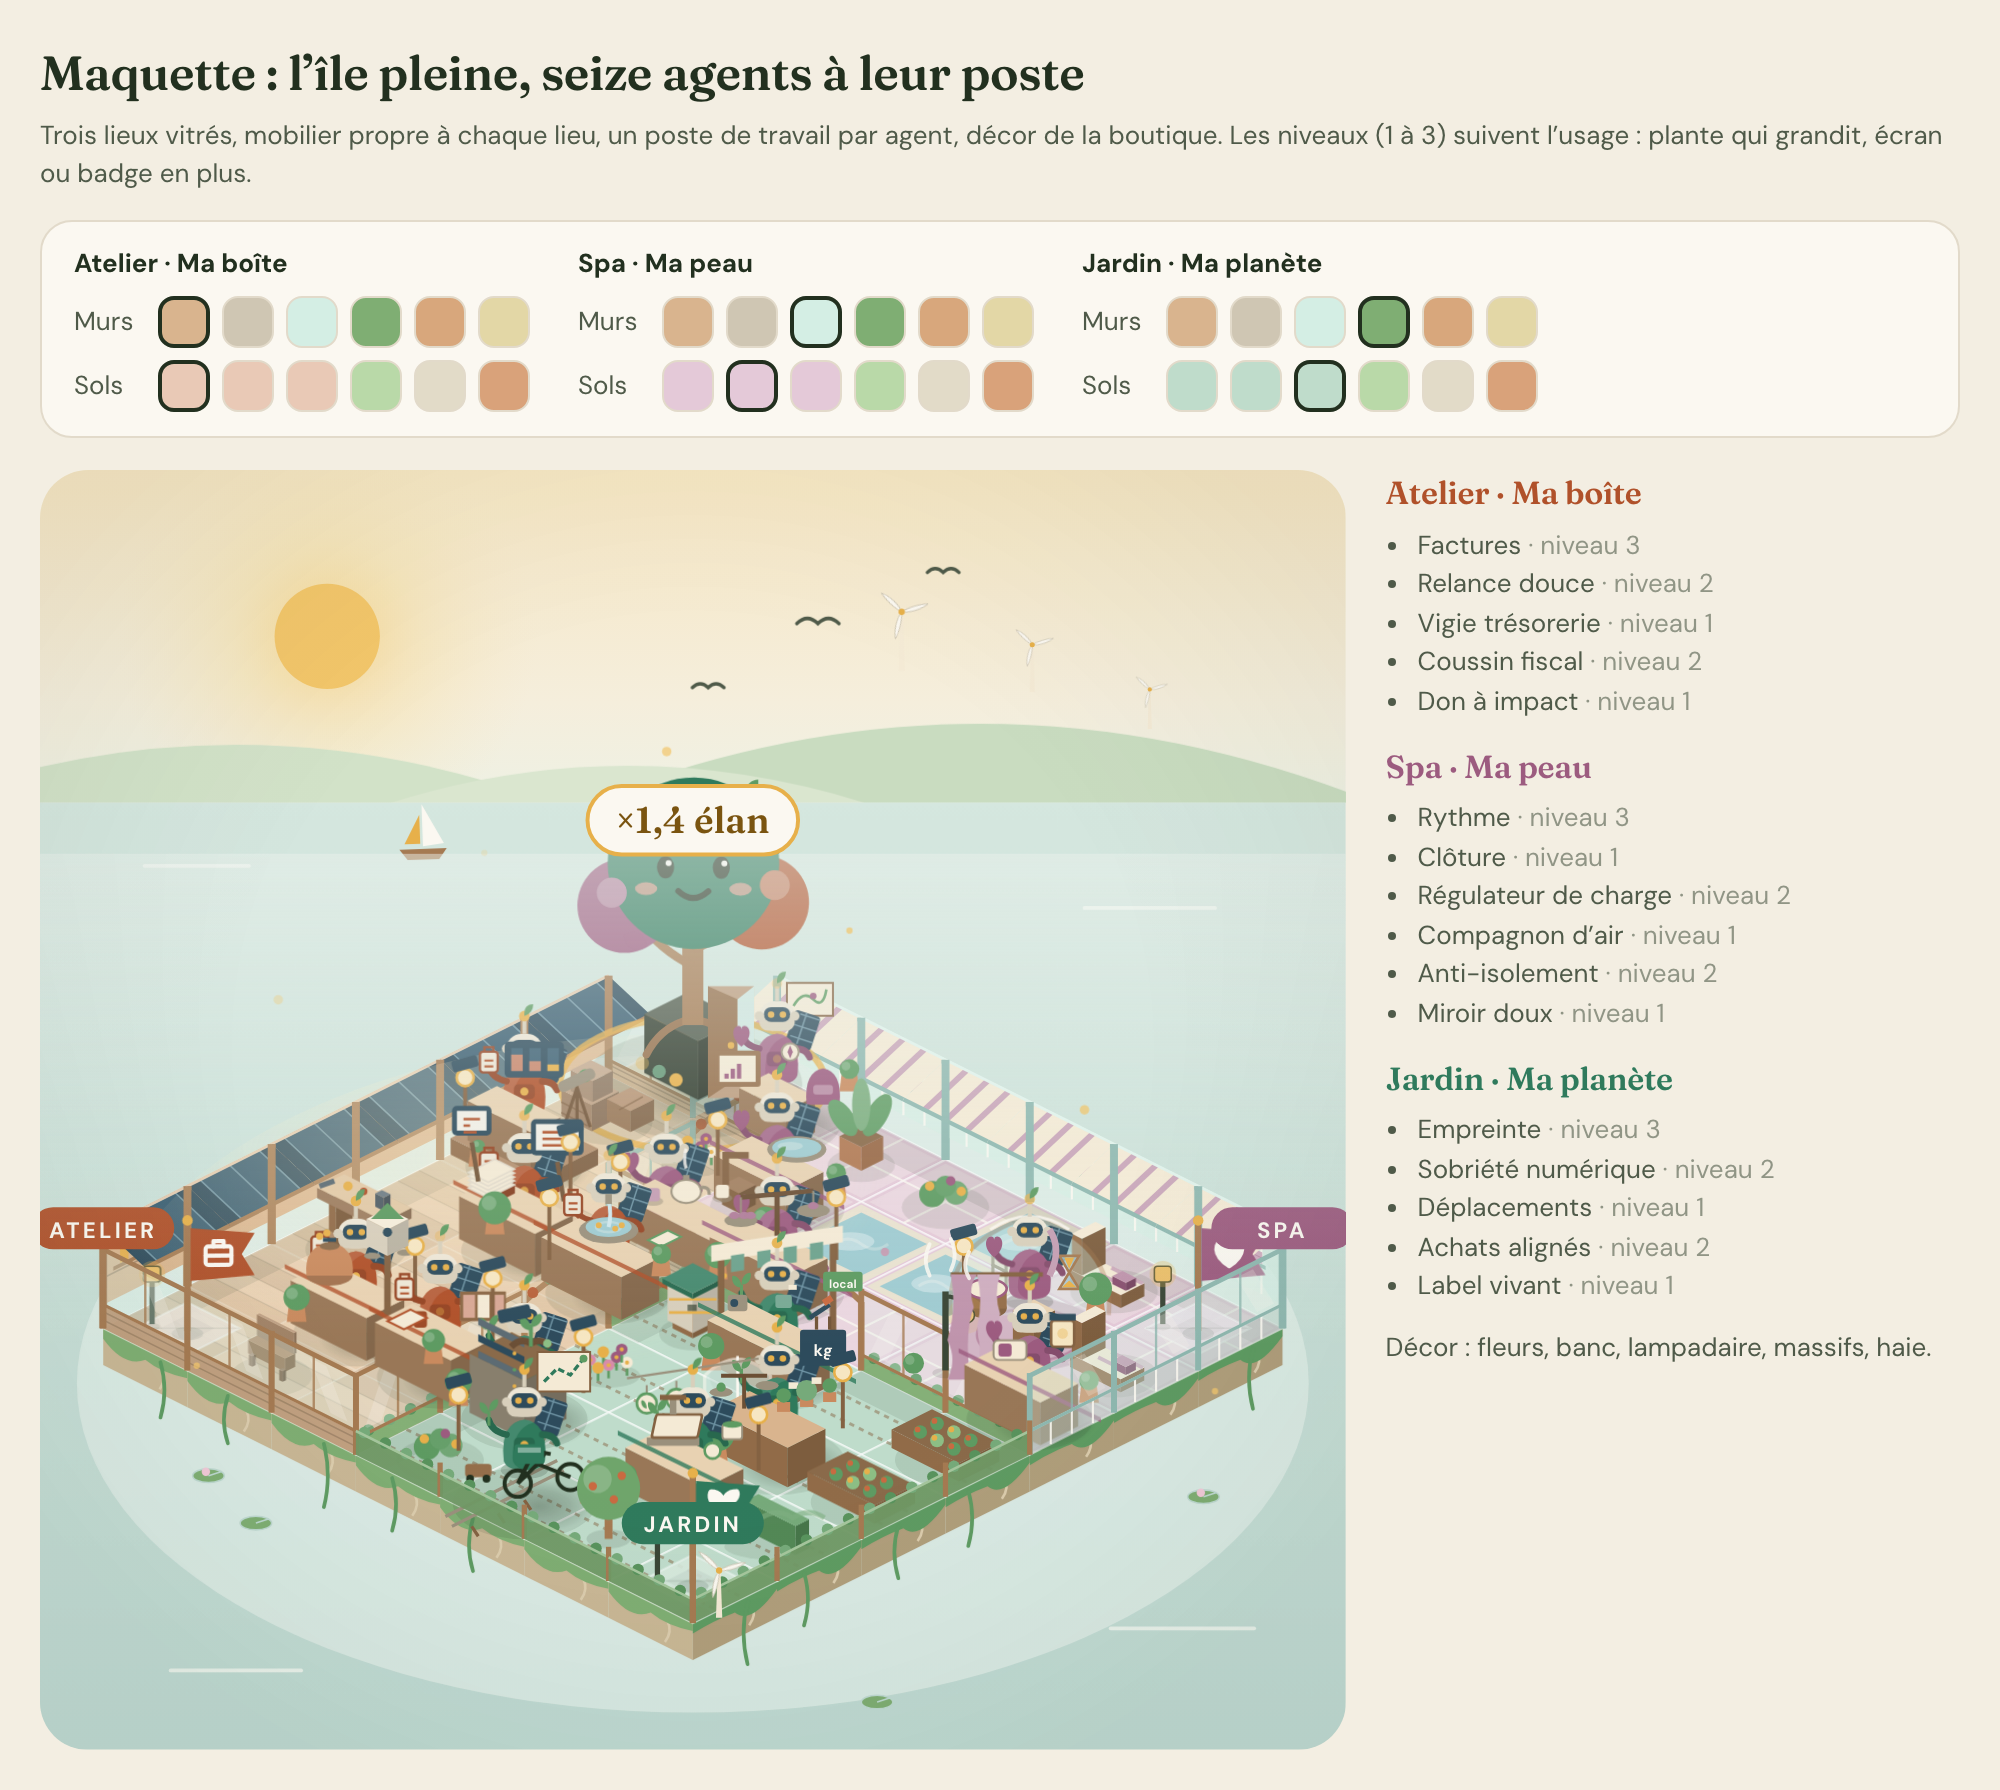
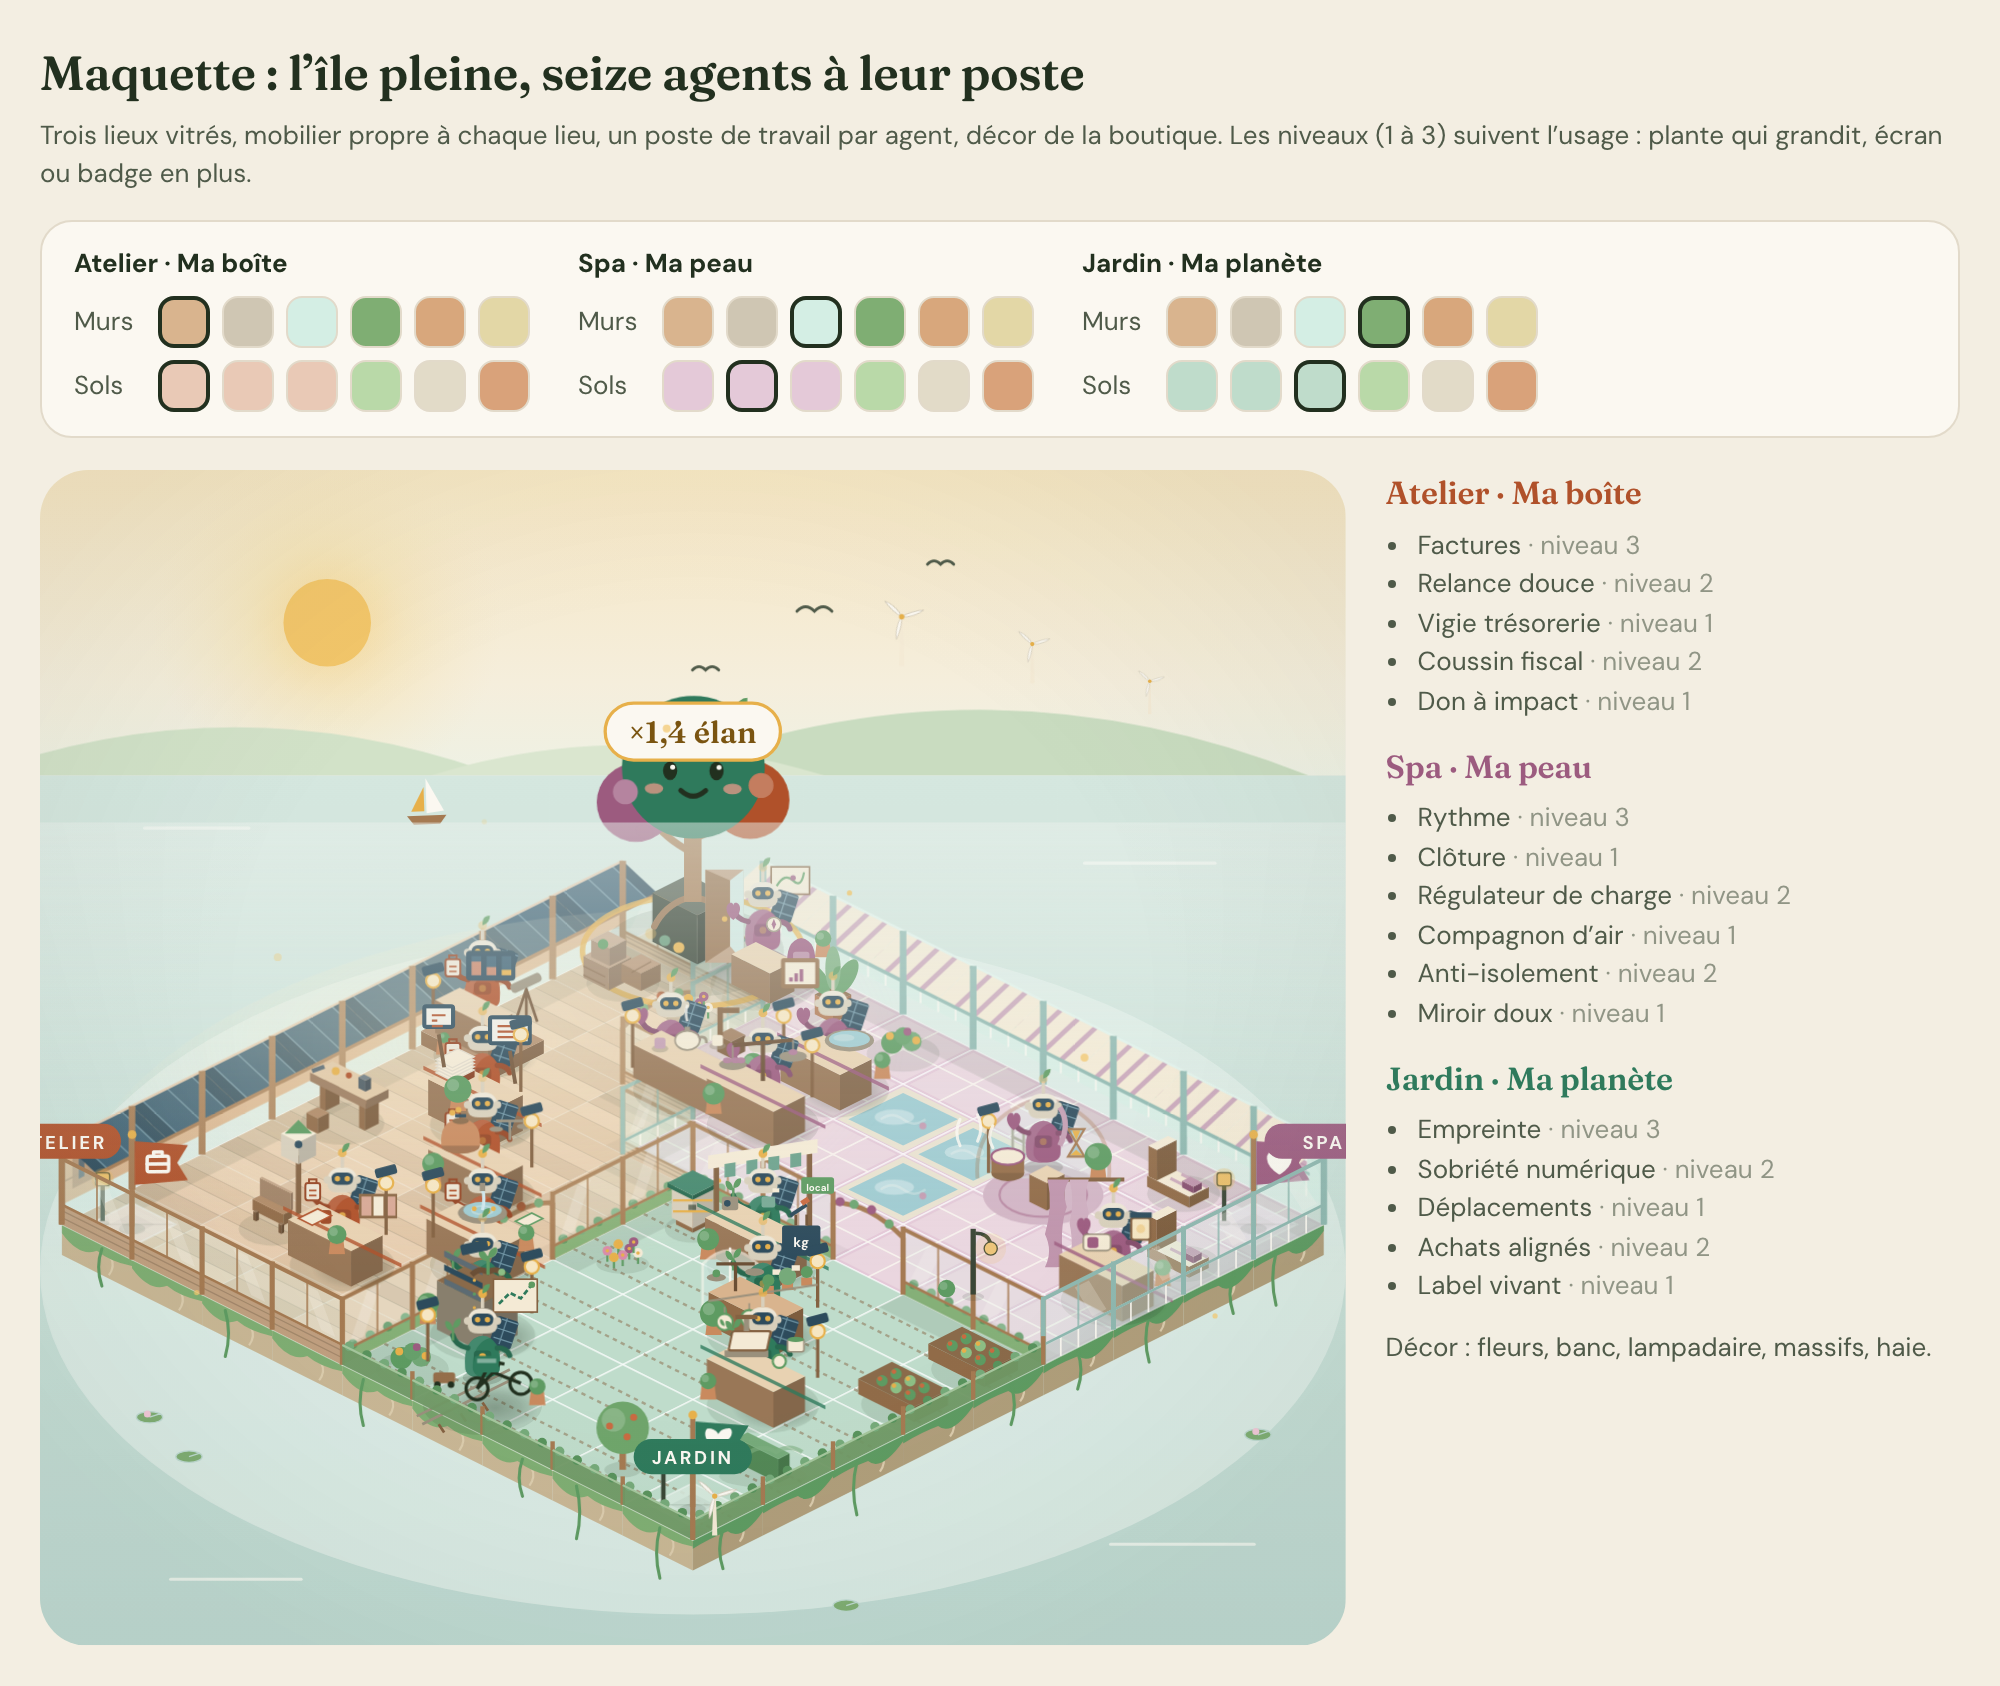
Île 9×9 : trois lieux d'environ 27 tuiles
Carte de départ agrandie (Atelier 27, Spa 28, Jardin 25 tuiles), fanions,
mobilier, poses de départ et tuiles d'agrandissement déplacés ; migration
des postes hors de leur lieu ou sur une tuile réservée ; cadrage resserré.

diff --git a/src/screens/Maquette.tsx b/src/screens/Maquette.tsx
@@ -18,34 +18,34 @@ const P = (id: string, x: number, y: number, poste: PlacementVue['poste'], domai
 
 const AGENTS: PlacementVue[] = [
   // Atelier · Ma boîte
-  P('factures', 1, 3, 'factures', 'boite', 3),
-  P('relance', 2, 5, 'relance', 'boite', 2),
-  P('vigie', 0, 2, 'vigie', 'boite'),
-  P('coussin', 1, 5, 'coussin', 'boite', 2),
-  P('don', 2, 3, 'don', 'boite'),
+  P('factures', 1, 4, 'factures', 'boite', 3),
+  P('relance', 2, 7, 'relance', 'boite', 2),
+  P('vigie', 0, 3, 'vigie', 'boite'),
+  P('coussin', 2, 5, 'coussin', 'boite', 2),
+  P('don', 3, 6, 'don', 'boite'),
   // Spa · Ma peau
-  P('rythme', 5, 1, 'rythme', 'peau', 3),
-  P('cloture', 6, 2, 'cloture', 'peau'),
+  P('rythme', 6, 1, 'rythme', 'peau', 3),
+  P('cloture', 8, 2, 'cloture', 'peau'),
   P('regulateur', 3, 2, 'regulateur', 'peau', 2),
   P('air', 1, 0, 'air', 'peau'),
   P('lien', 2, 2, 'lien', 'peau', 2),
-  P('miroir', 2, 1, 'miroir', 'peau'),
+  P('miroir', 3, 1, 'miroir', 'peau'),
   // Jardin · Ma planète
-  P('empreinte', 5, 4, 'empreinte', 'planete', 3),
-  P('sobriete', 3, 5, 'sobriete', 'planete', 2),
-  P('deplacements', 4, 6, 'deplacements', 'planete'),
-  P('achats', 4, 3, 'achats', 'planete', 2),
-  P('label', 5, 5, 'label', 'planete'),
+  P('empreinte', 6, 5, 'empreinte', 'planete', 3),
+  P('sobriete', 4, 7, 'sobriete', 'planete', 2),
+  P('deplacements', 5, 8, 'deplacements', 'planete'),
+  P('achats', 5, 4, 'achats', 'planete', 2),
+  P('label', 7, 6, 'label', 'planete'),
 ]
 
 const DECORS: DecorVue[] = [
   { id: 'd1', x: 1, y: 1, decorId: 'fleurs' },
-  { id: 'd2', x: 1, y: 6, decorId: 'banc' },
-  { id: 'd3', x: 5, y: 2, decorId: 'lampadaire' },
+  { id: 'd2', x: 1, y: 7, decorId: 'banc' },
+  { id: 'd3', x: 7, y: 3, decorId: 'lampadaire' },
   { id: 'd4', x: 3, y: 0, decorId: 'massif' },
-  { id: 'd5', x: 6, y: 5, decorId: 'haie' },
-  { id: 'd6', x: 3, y: 4, decorId: 'fleurs' },
-  { id: 'd7', x: 3, y: 6, decorId: 'massif' },
+  { id: 'd5', x: 8, y: 7, decorId: 'haie' },
+  { id: 'd6', x: 4, y: 5, decorId: 'fleurs' },
+  { id: 'd7', x: 4, y: 8, decorId: 'massif' },
 ]
 
 const ZONES: Domaine[] = ['boite', 'peau', 'planete']

diff --git a/src/data/seed.ts b/src/data/seed.ts
@@ -36,9 +36,9 @@ function propositionsExemple(base: number): Proposition[] {
 
 /** Pose de départ des trois agents offerts, dans leur zone respective. */
 const POSES_DEPART: Record<string, { x: number; y: number }> = {
-  plume: { x: 1, y: 3 },
-  source: { x: 5, y: 1 },
-  racine: { x: 5, y: 4 },
+  plume: { x: 1, y: 4 },
+  source: { x: 6, y: 1 },
+  racine: { x: 6, y: 5 },
 }
 
 // Garde de session : évite un double amorçage (StrictMode monte l'effet deux fois).
@@ -94,8 +94,9 @@ async function synchroniserNomsDeDepart(): Promise<void> {
 }
 
 /**
- * Migration « les trois lieux » : un poste posé sur une tuile désormais
- * réservée (bassin du Spa, mobilier) est déplacé sur une tuile libre de sa zone.
+ * Migration « les trois lieux » (île 9×9) : un poste posé sur une tuile
+ * désormais réservée (bassin du Spa, mobilier) ou hors du lieu de son agent
+ * est déplacé sur une tuile libre de son lieu.
  */
 async function liberarTuilesReservees(): Promise<void> {
   const tuiles = tuilesDeDepart()
@@ -103,8 +104,11 @@ async function liberarTuilesReservees(): Promise<void> {
   const placements = await db.placements.toArray()
   const occupees = new Set(placements.map((p) => cle(p.x, p.y)))
   for (const p of placements) {
-    if (!reservees.has(cle(p.x, p.y))) continue
-    const zone = tuiles.find((t) => t.x === p.x && t.y === p.y)?.zone
+    const zoneTuile = tuiles.find((t) => t.x === p.x && t.y === p.y)?.zone
+    const agent = p.kind === 'batiment' ? await db.agents.get(p.refId) : undefined
+    const zone = agent?.domaine ?? zoneTuile
+    const bienPlace = !reservees.has(cle(p.x, p.y)) && (!agent || zoneTuile === agent.domaine)
+    if (bienPlace) continue
     const libre = tuiles.find((t) => t.zone === zone && !reservees.has(cle(t.x, t.y)) && !occupees.has(cle(t.x, t.y)))
     if (!libre) continue
     occupees.delete(cle(p.x, p.y))

diff --git a/src/island/Meubles.tsx b/src/island/Meubles.tsx
@@ -18,17 +18,17 @@ export interface MeubleLieu {
 
 export const MEUBLES_LIEUX: MeubleLieu[] = [
   // Atelier : établi contre le mur du fond, caisses dans le coin
-  { x: 0, y: 4, zone: 'boite', meuble: 'etabli' },
+  { x: 0, y: 5, zone: 'boite', meuble: 'etabli' },
   { x: 0, y: 1, zone: 'boite', meuble: 'caisses' },
   // Spa : transats au soleil, grande plante à l'entrée
-  { x: 5, y: 0, zone: 'peau', meuble: 'transat' },
-  { x: 6, y: 1, zone: 'peau', meuble: 'transat' },
+  { x: 7, y: 0, zone: 'peau', meuble: 'transat' },
+  { x: 8, y: 1, zone: 'peau', meuble: 'transat' },
   { x: 2, y: 0, zone: 'peau', meuble: 'plante' },
   // Jardin : bacs potagers le long de la clôture, ruche, arbre fruitier
-  { x: 6, y: 3, zone: 'planete', meuble: 'bac' },
-  { x: 6, y: 4, zone: 'planete', meuble: 'bac' },
-  { x: 3, y: 3, zone: 'planete', meuble: 'ruche' },
-  { x: 5, y: 6, zone: 'planete', meuble: 'arbre-fruitier' },
+  { x: 8, y: 4, zone: 'planete', meuble: 'bac' },
+  { x: 8, y: 5, zone: 'planete', meuble: 'bac' },
+  { x: 4, y: 4, zone: 'planete', meuble: 'ruche' },
+  { x: 7, y: 8, zone: 'planete', meuble: 'arbre-fruitier' },
 ]
 
 const TERRE = '#8A6A4A'

diff --git a/src/island/iso.ts b/src/island/iso.ts
@@ -9,20 +9,21 @@ export const SOCLE = 14
 export const COEUR = { x: 0, y: 0 }
 
 /**
- * Répartition de départ 7×7 : 16 tuiles par domaine, le Cœur au fond de l'île
- * (coin arrière, d'où l'arbre veille sur tout). Ma boîte à gauche, Ma peau à
- * droite. Ma planète devant. La rivière fourche au milieu : son tronc sépare
- * Ma boîte de Ma peau, puis deux bras encadrent Ma planète jusqu'à la mer.
- * Lignes = y, colonnes = x. B = boîte, P = peau, V = planète, C = Cœur.
+ * Répartition de départ 9×9 : trois lieux d'environ 27 tuiles, le Cœur au
+ * fond de l'île (coin arrière, d'où l'arbre veille sur tout). L'Atelier
+ * (Ma boîte) à gauche, le Spa (Ma peau) à droite, le Jardin (Ma planète)
+ * devant. Lignes = y, colonnes = x. B = boîte, P = peau, V = planète, C = Cœur.
  */
 const CARTE_DEPART = [
-  'CPPPPPP',
-  'BBPPPPP',
-  'BBPPPPP',
-  'BBBVVVV',
-  'BBBVVVV',
-  'BBBVVVV',
-  'BBBVVVV',
+  'CPPPPPPPP',
+  'BBPPPPPPP',
+  'BBPPPPPPP',
+  'BBBPPPPPP',
+  'BBBBVVVVV',
+  'BBBBVVVVV',
+  'BBBBVVVVV',
+  'BBBBVVVVV',
+  'BBBBVVVVV',
 ]
 
 /**

diff --git a/src/domain/boutique.ts b/src/domain/boutique.ts
@@ -64,17 +64,17 @@ export function getDecor(id: DecorId): DecorItem | undefined {
 export const PRIX_TUILE = 300
 
 /**
- * Tuiles d'agrandissement, débloquées une par une (300 graines chacune).
- * Placées sur les bords arrière et latéraux pour ne pas croiser la rivière.
+ * Tuiles d'agrandissement, débloquées une par une (300 graines chacune),
+ * sur les bords latéraux et avant de l'île 9×9.
  */
 export const EXPANSION: { x: number; y: number; zone: 'boite' | 'peau' | 'planete' }[] = [
   { x: -1, y: 1, zone: 'boite' },
-  { x: 7, y: 1, zone: 'peau' },
+  { x: 9, y: 1, zone: 'peau' },
   { x: -1, y: 2, zone: 'boite' },
-  { x: 7, y: 2, zone: 'peau' },
+  { x: 9, y: 2, zone: 'peau' },
   { x: -1, y: 3, zone: 'boite' },
-  { x: 7, y: 3, zone: 'peau' },
-  { x: 2, y: 7, zone: 'planete' },
-  { x: 3, y: 7, zone: 'planete' },
-  { x: 4, y: 7, zone: 'planete' },
+  { x: 9, y: 3, zone: 'peau' },
+  { x: 4, y: 9, zone: 'planete' },
+  { x: 5, y: 9, zone: 'planete' },
+  { x: 6, y: 9, zone: 'planete' },
 ]

diff --git a/src/island/Island.tsx b/src/island/Island.tsx
@@ -109,9 +109,9 @@ type Objet =
 
 /** Fanions d'entrée de zone, aux coins extérieurs de l'île. */
 const FANIONS: { x: number; y: number; zone: Domaine }[] = [
-  { x: 0, y: 6, zone: 'boite' },
-  { x: 6, y: 0, zone: 'peau' },
-  { x: 6, y: 6, zone: 'planete' },
+  { x: 0, y: 8, zone: 'boite' },
+  { x: 8, y: 0, zone: 'peau' },
+  { x: 8, y: 8, zone: 'planete' },
 ]
 
 /** Au fond de l'île, l'arbre peut être plus grand sans rien cacher. */
@@ -164,9 +164,10 @@ export function Island({
   }
   // Cadre de la scène : l'île en bas, du ciel au-dessus pour les bâtiments.
   const b = bornes(tuiles)
-  const marge = 24
+  // Île 9×9 : marge réduite et ciel un peu plus bas pour qu'elle remplisse l'écran.
+  const marge = 10
   const W = b.maxX - b.minX + marge * 2
-  const H = Math.max(W * 0.98, b.maxY - b.minY + 200)
+  const H = Math.max(W * 0.9, b.maxY - b.minY + 170)
   const x0 = b.minX - marge
   const y0 = b.maxY + 34 - H
   const horizon = y0 + H * 0.26

diff --git a/src/island/iso.test.ts b/src/island/iso.test.ts
@@ -6,14 +6,14 @@ describe('carte de départ', () => {
   const tuiles = tuilesDeDepart()
   const zoneDe = new Map(tuiles.map((t) => [cle(t.x, t.y), t.zone]))
 
-  it('a 16 tuiles par domaine et un Cœur', () => {
+  it('a trois lieux d’environ 27 tuiles et un Cœur', () => {
     const c = { boite: 0, peau: 0, planete: 0, coeur: 0 }
     tuiles.forEach((t) => c[t.zone]++)
-    expect(c).toEqual({ boite: 16, peau: 16, planete: 16, coeur: 1 })
+    expect(c).toEqual({ boite: 27, peau: 28, planete: 25, coeur: 1 })
   })
 
   it('place chaque agent de départ dans la zone de son domaine', () => {
-    const POSES: Record<string, [number, number]> = { plume: [1, 3], source: [4, 1], racine: [5, 4] }
+    const POSES: Record<string, [number, number]> = { plume: [1, 4], source: [6, 1], racine: [6, 5] }
     for (const id of AGENTS_DE_DEPART) {
       const t = getTemplate(id)!
       const [x, y] = POSES[id]
